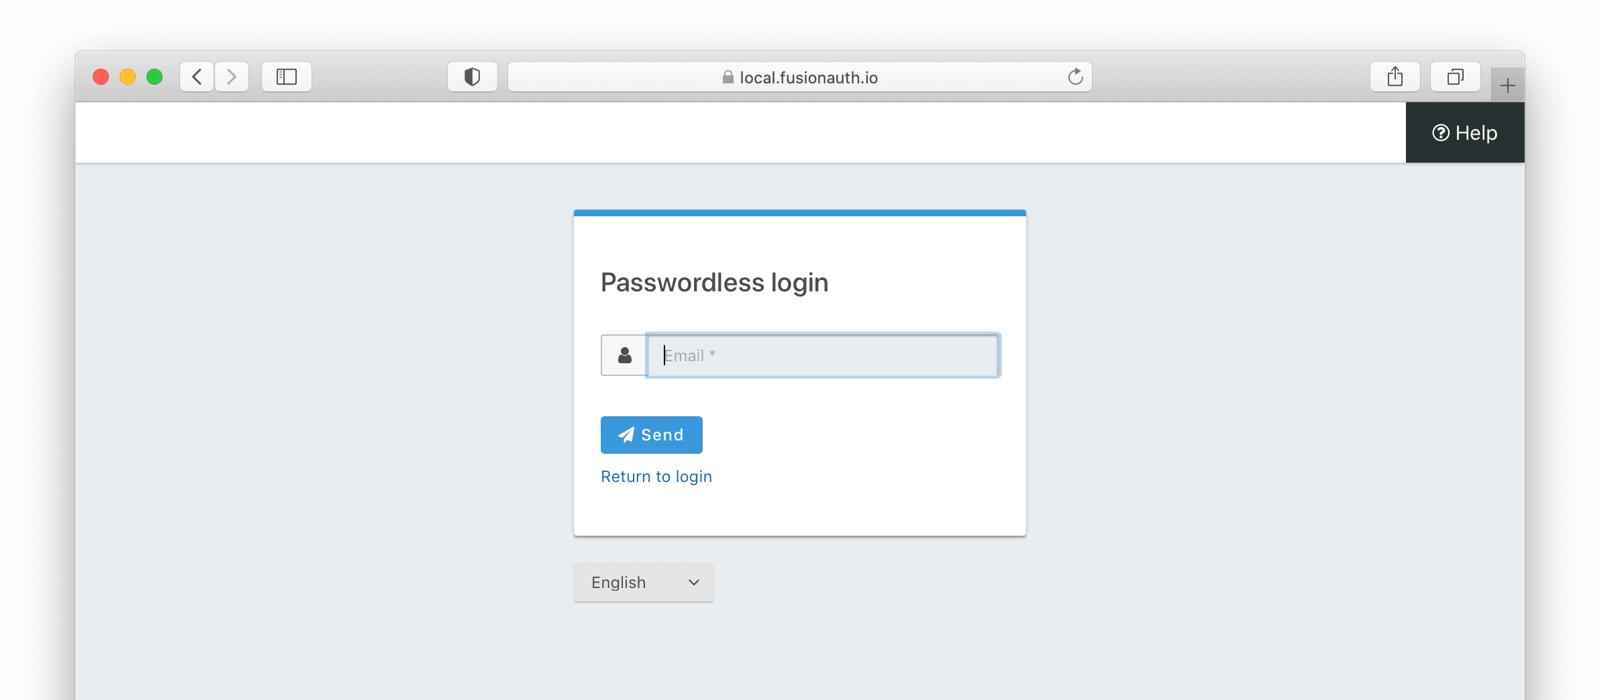
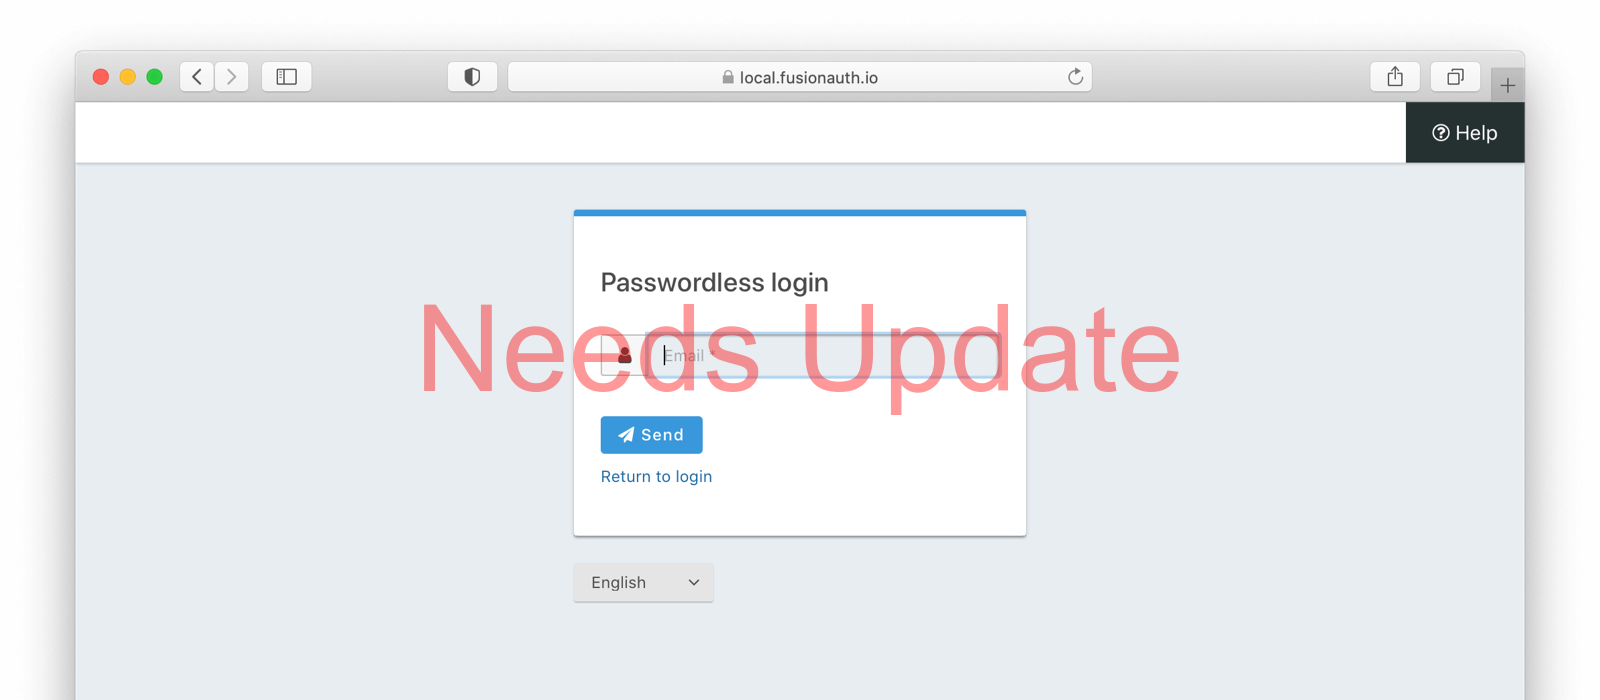
ENG-2548 - Passwordless form field docs (#3691)
* Article updates
* 1st round of image updates
* Add a message template screenshot
* Don't use remote code for files in our repo, and show the passwordless phone template
* Add loginStrategy and explanation
* Generator config
* Add our new API fields
* Add our new theme page
* Add phone templates that were missed before

Changed region(s): [[0.25, 0.42, 0.75, 0.6]]

diff --git a/astro/src/content/articles/identity-basics/magic-links.md b/astro/src/content/articles/identity-basics/magic-links.md
@@ -14,15 +14,13 @@ If you're a developer, it's your responsibility to keep up with the ever-evolvin
 
 In simplest terms, a magic link is a URL with an embedded unique token. They are sometimes included in a [multi-factor authentication (MFA)](/features/multifactor-authentication) approach. Clicking on the link authenticates the user, allowing them to access a particular service or application. It is similar in function to a [one-time password (OTP)](/articles/authentication/developer-benefits-single-sign-on) setup but with less risk.
 
-Magic links are a straightforward alternative to usernames and passwords. Instead of asking users to create and remember credentials, we send a one-time-use link to their registered email account. The link is unique, so it cannot be used by anyone else. It is also impossible for the user to lose because we can recover it from our servers at any time.
+Magic links are a straightforward alternative to usernames and passwords. Instead of asking users to create and remember credentials, we send a one-time-use link or code to their registered email account or phone number. The link/code is unique, so it cannot be used by anyone else. It is also impossible for the user to lose because we can recover it from our servers at any time.
 
-Because the link is sent via email, Slack, or even carrier pigeon, it is also potentially more secure than using SMS messages. While other messaging platforms can work with magic links, due to the ubiquity of email, most systems use that. The rest of this article will assume you are sending magic links over email. The concept was [first introduced around 2010](https://lea.verou.me/2010/08/automatic-login-via-notification-emails/), and then picked up by major players such as Facebook and Microsoft. This approach has become popular because it's easy for users and administrators alike.
+While other messaging platforms can work with magic links, due to the ubiquity of email, most systems use that. The concept was [first introduced around 2010](https://lea.verou.me/2010/08/automatic-login-via-notification-emails/), and then picked up by major players such as Facebook and Microsoft. This approach has become popular because it's easy for users and administrators alike.
 
 ## How Does Magic Link Authentication Work?
 
-The process starts when a user inputs their email address into a login form. The backend API service generates a unique token and attaches it to a URL, which we term as the "magic link." This link is then sent to the user's registered email. The user opens their email, clicks the magic link, which leads back to the application or service. The server then verifies the token and logs in the user.
-
-By doing so, magic links leverage the security of the user's email provider. If someone can access the magic link, they already have access to the user's email. If the user's email account is compromised, then they likely have bigger problems than someone accessing your service. The magic link is a one-time URL that can only be used once. This means that if someone steals a magic link that has already been used, they cannot use it again. This means that the user gets the ease of logging in to your system without having to present a credential. But they still benefit from the security around the email account, including any protections the email provider has put in place or MFA the user has added.
+The process starts when a user inputs their email address or phone number into a login form. The backend API service either generates a unique token and attaches it to a URL, which we term as the "magic link", or generates a code when using a phone number. This link or code is then sent to the user via email or SMS. For email use cases, the user opens their email, clicks the magic link, which leads back to the application or service. The server then verifies the token and logs in the user. For phone use cases, the user enters the code from an SMS message into the login form.
 
 ## What Are The Benefits Of Using Magic Links
 
@@ -41,13 +39,13 @@ Implementing a secure password-based system can be a challenge. It involves crea
 
 The comparison between the traditional login process using passwords and magic link authentication is both valid and pertinent. Let's explore why magic links might be a superior choice for enhancing the authentication process.
 
-Starting with the user experience, the login process is a critical touchpoint. Magic links simplify this process. Instead of remembering complex passwords or relying on a password manager, users receive a magic link in their email, click on it, and gain access. This streamlined login process not only boosts user satisfaction but can also increase engagement rates.
+Starting with the user experience, the login process is a critical touchpoint. Magic links simplify this process. Instead of remembering complex passwords or relying on a password manager, users receive a magic link in their email or a code via SMS, click on it, and gain access. This streamlined login process not only boosts user satisfaction but can also increase engagement rates.
 
-When considering security, the traditional password-based login process has several vulnerabilities. Users often resort to easy-to-remember passwords or reuse them across platforms, making them susceptible to security breaches. Magic link authentication, in contrast, offers a unique and temporary solution for each login attempt. These links are tied to the user's email, integrating an extra layer of security. What's more, the reliance on email accounts, which typically include their own security measures like two-factor authentication, further strengthens overall security.
+When considering security, the traditional password-based login process has several vulnerabilities. Users often resort to easy-to-remember passwords or reuse them across platforms, making them susceptible to security breaches. Magic link authentication, in contrast, offers a unique and temporary solution for each login attempt. These links are tied to the user's email or phone number, integrating an extra layer of security. What's more, the reliance on email accounts, which typically include their own security measures like two-factor authentication, further strengthens overall security.
 
 From a developer's perspective, implementing magic link authentication can reduce the lines of code required compared to creating a comprehensive password-based system. This reduced complexity not only benefits developers, but also enhances security by eliminating the vulnerabilities associated with password storage and management.
 
-However, it's crucial to note that while magic links improve the login and authentication process, they are not flawless. Their effectiveness hinges on the security of the user's email account. Even though this risk is somewhat mitigated by the temporary nature of magic links and the additional authentication measures in most email systems, it remains a consideration.
+However, it's crucial to note that while magic links improve the login and authentication process, they are not flawless. Their effectiveness hinges on the security of the user's email account. Even though this risk is somewhat mitigated by the temporary nature of magic links and the additional authentication measures in most email systems, it remains a consideration. Magic links and phone numbers are also dependent on the security of the user's phone number.
 
 To sum up, while passwords have long been the foundation of the authentication process, the advent of passwordless authentication through magic links is a game-changer. By transforming the login process, bolstering security, and simplifying the coding requirements, magic link authentication is rapidly becoming a key player in the realm of digital security. As we advance towards a more secure and user-centric online environment, the role of magic links in passwordless authentication cannot be overstated.
 
@@ -55,9 +53,9 @@ To sum up, while passwords have long been the foundation of the authentication p
 
 While magic links provide an attractive alternative to traditional passwords and forgot password links, it's crucial to consider potential drawbacks.
 
-### Are Magic Links Reliant On Email Accounts?
+### Are Magic Links Reliant On Email Accounts or Phone Numbers?
 
-Magic links rely on the security of the user's email account. If a user's email account is compromised, all services using magic links are potentially at risk. It's thus crucial to encourage users to protect their email accounts with strong security measures, like two-factor authentication. Also, some email providers will pre-fetch all links in all emails, which may expire magic links. Make sure you consider this in your implementation.
+Magic links rely on the security of the user's email account or phone number. If a user's email account/phone number is compromised, all services using magic links are potentially at risk. It's thus crucial to encourage users to protect their email accounts with strong security measures, like two-factor authentication. Also, some email providers will pre-fetch all links in all emails, which may expire magic links. Make sure you consider this in your implementation.
 
 ### Do Magic Links Prevent Phishing Attacks?
 
@@ -65,16 +63,16 @@ Users might be tricked into clicking on malicious links masquerading as magic li
 
 ### What Are Security Considerations of Magic Links?
 
-If the user's email account is compromised, all services using magic links are potentially at risk. This issue can be mitigated by encouraging users to protect their email accounts with strong security measures like two-factor authentication and keeping the lifetime of a magic link low.
+If the user's email account or phone number is compromised, all services using magic links are potentially at risk. This issue can be mitigated by encouraging users to protect their email accounts with strong security measures like two-factor authentication and keeping the lifetime of a magic link low. For phone number use cases, carefully consider the tradeoffs of allowing phone number passwordless authentication.
 
 ## Implementing Magic Links
 
 Here's a brief outline of how you might implement magic links. Your API provider docs will have more specific instructions.
 
-1. User Login Request: The user enters their email address.
+1. User Login Request: The user enters their email address or phone number.
 2. Token Generation: Your backend generates a unique token.
-3. Magic Link Email: The token is embedded into a URL and emailed to the user.
-4. User Clicks the Link: User authenticates by clicking the link.
+3. Magic Link Email: The token is embedded into a URL and emailed to the user. For phone number use cases, a short, one-time code is sent via SMS.
+4. User Clicks the Link (or enters the code from their SMS message): User authenticates by clicking the link.
 5. Token Validation: Your backend validates the token, logs in the user, and invalidates the token for further use.
 
 While simple, this process must be coupled with solid cybersecurity practices, like HTTPS and secure token generation methods. It's important to note that a magic link is not a password reset link. Password resets are for when users forget their password and need to be logged in again. A magic link is an authentication method that removes the need for users to know their password.
@@ -85,11 +83,11 @@ Implementing magic link authentication is a significant step towards enhancing t
 
 Testing the functionality of magic links in various scenarios is key. This includes assessing how they perform across different devices and email clients. It's important to simulate different user behaviors, like using an expired link or accessing the link from different devices, to ensure the robustness of the system.
 
-User experience testing is equally important. Gathering feedback from real users during the beta phase can provide invaluable insights. Observing how users interact with the magic link process, from receiving the email to completing the login, helps identify any friction points. You can then make adjustments to streamline the process. These might include optimizing email content for clarity and ease of use, or ensuring the magic link leads directly to the desired page or action.
+User experience testing is equally important. Gathering feedback from real users during the beta phase can provide invaluable insights. Observing how users interact with the magic link process, from receiving the email or SMS message to completing the login, helps identify any friction points. You can then make adjustments to streamline the process. These might include optimizing email or SMS content for clarity and ease of use, or ensuring the magic link leads directly to the desired page or action.
 
 Security testing is another critical aspect. This involves ensuring that the magic link authentication process is robust against potential security threats. Regularly updating and patching the system, conducting penetration tests, and ensuring the temporary nature of the links are all practices that can help maintain high-security standards.
 
-Optimization also involves looking at the backend processes. Analyzing the system's performance in terms of email delivery times, load times, and server response can pinpoint areas for improvement. Reducing the lines of code involved in generating and processing magic links can enhance the system's efficiency and reliability.
+Optimization also involves looking at the backend processes. Analyzing the system's performance in terms of email or SMS delivery times, load times, and server response can pinpoint areas for improvement. Reducing the lines of code involved in generating and processing magic links can enhance the system's efficiency and reliability.
 
 Finally, it's important to continuously monitor and update the magic link system. What works today may not be as effective tomorrow. Reviewing and updating the authentication process, while keeping on top of new technological advancements and security threats, is crucial for maintaining an effective magic link system.
 
